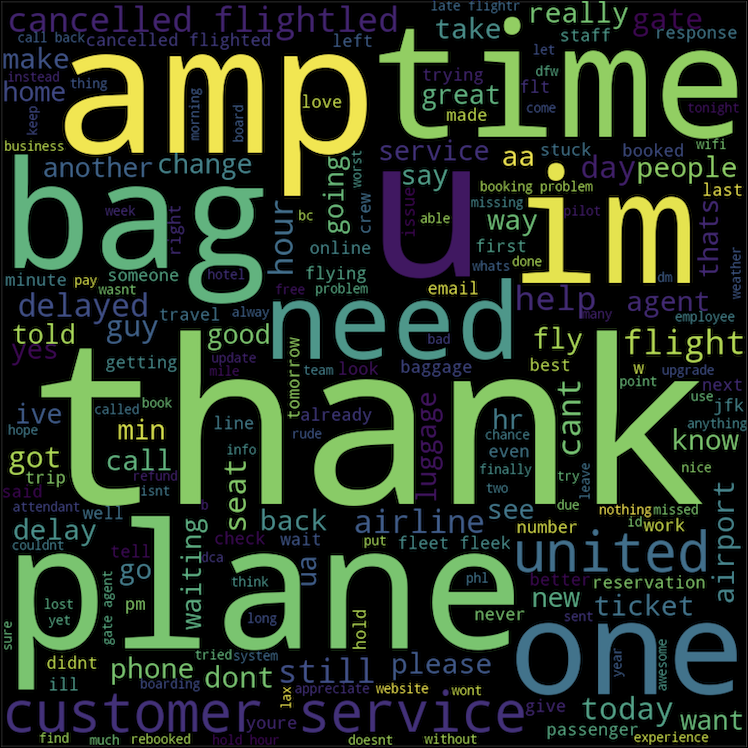
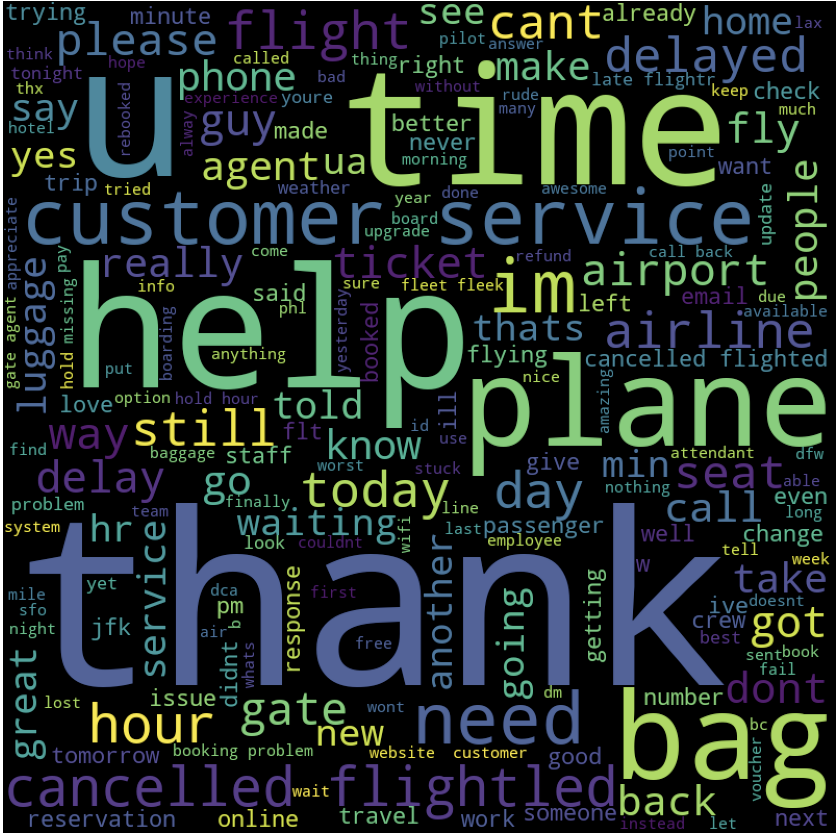
readme edit

diff --git a/Capstone.py b/Capstone.py
@@ -44,8 +44,12 @@ Data Wrangling and EDA
 all_data = pd.read_csv('data/Tweets.csv')
 # all_data = pd.read_csv('data/Tweets.csv', encoding='ISO-8859-1')
 
+
 # drop unwanted columns 
 df = all_data.drop(columns=['tweet_id','airline_sentiment_confidence', 'negativereason', 'negativereason_confidence', 'airline_sentiment_gold', 'negativereason_gold'])
+
+# check out the data
+# print(data_overview(df))
 
 # remove duplicate rows (there's over 100 duplicate rows)
 df.drop_duplicates(inplace=True)
@@ -66,7 +70,6 @@ for text in df.tweet:
 list_words_raw_corpus = corpus.split()
 
 
-
 '''
 NLP
 '''
@@ -74,7 +77,7 @@ NLP
 # stopwords are nltk stopwords
 # add new stopwords
 StopWords = set(stopwords.words('english'))
-add_stopwords = {'flight', 'virgin america', 'virginamerica', 'united', 'southwest', 'southwestair', 'delta', 'us airways', 'usairways', 'american', 'americanair', 'aa', 'jet blue', 'jetblue', 'one', 'two', 'three', 'four', 'five', 'six', 'seven', 'eight', 'nine', 'ten', 'eleven', 'twelve', 'thirteen', 'fourteen', 'fifteen', 'twenty four', '@virginamerica', '@united', '@southwest', '@delta', '@usairways', '@americanair', '@jetblue', '@delta'}
+add_stopwords = {'flight', 'virgin america', 'virginamerica', 'united', 'southwest', 'southwestair', 'delta', 'us airways', 'usairways', 'american', 'americanair', 'aa', 'jet blue', 'jetblue', 'one', 'two', 'three', 'four', 'five', 'six', 'seven', 'eight', 'nine', 'ten', 'eleven', 'twelve', 'thirteen', 'fourteen', 'fifteen', 'twenty four', '@virginamerica', '@united', '@southwest', '@delta', '@usairways', '@americanair', '@jetblue', '@delta', 'amp'}
 StopWords = StopWords.union(add_stopwords)
 
 # text cleaning pipeline
@@ -164,7 +167,7 @@ plt.tight_layout(pad = 1)
 
 def common_words_graph(text, num_words=15, title='Most Common Words'):
     '''
-    Horizontal graph of most common words in text with their counts in descending order.
+    Horizontal bar graph of most common words in text with their counts in descending order.
 
     Parameter
     ----------
@@ -177,7 +180,7 @@ def common_words_graph(text, num_words=15, title='Most Common Words'):
 
     Returns
     ----------
-    Shows graph and saves PNG file of horizontal bar graph showing specified number of most common words in the passed in text string.
+    Shows bar graph with counts of the most common words and saves PNG file of horizontal bar graph showing specified number of most common words in the passed in text string.
     '''
     txt = text.split()
     sorted_word_counts = collections.Counter(txt)
@@ -195,7 +198,7 @@ def common_words_graph(text, num_words=15, title='Most Common Words'):
     ax.set_title(title)
     plt.legend(edgecolor='inherit')
     plt.show()
-    return plt.save('common words graph')
+    # return plt.save('common words graph')
 
 # Lexical diversity
 # total words, total unique words, average repitition, proportion of unique words
@@ -206,13 +209,26 @@ def lexical_diversity(text):
     print(f'Average word repetition: {round(len(text)/len(set(text)), 2)}')
     return f'Proportion of unique words: {round(len(set(txt)) / len(txt), 2)}'
 
+# see examples of the context of a selected word
+def get_context(text, word, lines=10):
+    '''
+    See the context of a word in your corpus.
 
+    Parameter
+    ----------
+    text:  str 
+        String of text.  The corpus.
+    word:  str
+        Word to find see .
+    lines:  int
+        Number of lines to return.
 
-
-
-text = nltk.Text(cleaned_corpus.split())
-text.concordance('thank', lines=8)
-text.concordance('service', lines=8)
+    Returns
+    ----------
+    Specified number of lines showing the context of the specified word.
+    '''
+    txt = nltk.Text(text.split())
+    return txt.concordance(word, lines=lines)
 
 
 
@@ -221,6 +237,10 @@ text.concordance('service', lines=8)
 '''
 Supervised learning classification
 '''
+print(np.random.choice([0,1,2], 1000, p = [.63, .21, .16]))
+
+def random_guess_results(classes=[0,1], iters=100, p=[.5,.5]): 
+    return np.random.choice(classes, iters, p)
 
 # count vectorizer (min_df ignores terms appearing in less than n docs.  max_df ignores words that are in more than n docs. min_df and max_df can take abs numbers or proportion)
 cv = CountVectorizer(stop_words='english')
@@ -242,8 +262,7 @@ cv = CountVectorizer(stop_words='english')
 
 
 # apply text cleaner to each tweet
-df['tweet'] = df['tweet'].apply(text_cleaner)
-
+# df['tweet'] = df['tweet'].apply(text_cleaner)
 
 
 # train/test split, stratify for unbalanced classes
@@ -252,23 +271,30 @@ y = df.sent
 X_train, X_test, y_train, y_test = train_test_split(X, y, test_size=.2, stratify=y)
 
 # apply count vectorizer to train/test data
+def vec_it(text, vectorizer=CountVectorizer):
+    vectorizer = vectorizer
+    words = text.split()
+
+    vecced_text = vectorizer.fit_transform(words)
+    return vecced_text
+
+
 X_train = cv.fit_transform(X_train).toarray()
 X_test = cv.transform(X_test).toarray()
 
 # apply tfidf vectorizer to train/test data
 #  Tfidf vectorizer
 tv = TfidfVectorizer()
-
 # X_train = tv.fit_transform(X_train)
 # y_test = tv.fit_transform(y_test)
 
 #list classification models to test, no tuning
-# MultinomialNB(), SVC(), DecisionTreeClassifier(), RandomForestClassifier(), MLPClassifier()
+# MultinomialNB(), SVC(), DecisionTreeClassifier(), RandomForestClassifier(), MLPClassifier() SVC(C=6, class_weight='balanced')
 
 models = [SVC(C=6, class_weight='balanced')]
 
 # tuned model list
-# models = [RandomForestClassifier(n_estimators=12000, max_features=3), MLPClassifier(hidden_layer_sizes=500, activation='relu', solver='adam', alpha=.05, batch_size=10, learning_rate='adaptive')]
+# models = [MLPClassifier(hidden_layer_sizes=500, activation='relu', solver='adam', alpha=.05, batch_size=10, learning_rate='adaptive'), RandomForestClassifier(n_estimators=12000, max_features=3), ]
 
 # score list of models, return accuracy and f1 scores for each model
 def score_class_models(models=models):
@@ -281,15 +307,12 @@ def score_class_models(models=models):
 
         acc_score_list.append(model.score(X_test, y_test))
         f1_score_list.append(f1_score(y_test, y_pred, average='weighted'))
-        # print(f'{model}: \n {confusion_matrix(y_test, y_pred)} \n')
         
-    for model, score, f1_score in zip(models, acc_score_list, f1_score_list):
+    for model, score, f1_scored in zip(models, acc_score_list, f1_score_list):
         print(f'{model} accuracy: {round(score * 100, 2)} %')
-        print(f'\n')
-        print(f'{model} f1: {round(f1_score * 100, 2)} %')     
+        print(f'{model} f1: {round(f1_scored * 100, 2)} %')     
 
-    # for model, score in zip(models, f1_score_list):
-    return
+
 
 # confusion matrix for best model
 def conf_matrix(model):
@@ -325,7 +348,7 @@ def stratified_k_fold(model, n_folds=5):
 
 
 '''
-Unsupervised Learning
+Unsupervised Learning.  Code is currently incomplete.
 '''
 # term frequency matrix has thousands of features.  reduce features using pca?
 # k means clustering to find clusters, evaluate clusters, 

diff --git a/README.md b/README.md
@@ -10,11 +10,9 @@
 
 <br>
 
-
 ![Sentiment-Counts](/images/sent-counts.png)
 
 <br>
-
 
 ![Sentiment-Counts-Airline](/images/sent-counts-airline.png)
 
@@ -22,8 +20,6 @@
 ### This wordcloud shows the most common words from all the tweets before the text was cleaned and analyzed.
 
 ![Unclean-Corp-WC](/images/unclean-corp-wc.png)
-
-
 
 <br>
 
@@ -40,17 +36,15 @@
 * Returns the cleaned text
 
 ### So text like this:
-1. @VirginAmerica why are your first fares in May over three times more than other carriers when all seats are available to select???
-2. 
-3. To be or not to be?
-4. In his house at R'lyeh dead Cthulhu waits dreaming.
+1. @USAirways 2 hours and counting waiting to get into a gate in Philadelphia. Just icing on the cake for a miserable flight experience
+2. To be or not to be?
+3. In his house at R'lyeh dead Cthulhu waits dreaming.
 
 
 ### Becomes:
-1. first fare may time carrier seat available select
-2. 
-3. ''
-4. house rlyeh dead cthulhu wait dreaming
+1. hour counting waiting get gate philadelphia icing cake miserable experience
+2. ''
+3. house rlyeh dead cthulhu wait dreaming
 
 ### Line 3 is a good example of why natural language processing can be difficult.
 
@@ -71,7 +65,7 @@
 
 <br>
 
-### Examples of some of the context in which the most common words were found.
+### Examples of the context in which some the most common words were found.
 #### "thank"
 
 ![thank-context](/images/thank-context.png)
@@ -80,10 +74,7 @@
 
 ![service-context](/images/service-context.png)
 
-
-
 <br>
-
 
 ### I used supervised learning classification models to try and build a good predictive model to classify tweets into their positive, negative, or neutral categories.  Since tweets are short I used Sklearn's CountVectorizer instead of the tfidf vectorizer. 
 
@@ -93,12 +84,12 @@
 * Support Vector Machine
 * Multi Layer Perceptron neural network
 
-
 ### Using random guessing the chances of correctly classifying a tweet would be
 
 ### Running models with the default parameters resulted in accuracy and f1 scores between 70-78% with Support Vector Machine performing the best.  F1 scores were usually only about 1-2% less than accuracy scores.
 
 #### Model scores using default parameters.
+
 ![No-Tuning](/images/no-tuning.png)
 
 ### I increased the number of trees in the Random Forest model as high as 12000, and tried different max features and class weights but didn't get any scores higher than 77%.
@@ -108,6 +99,7 @@
 ### By tuning the models to account for the imbalanced classes and making changes to my stopwords list and text pipeline I was able to raise the MLP classifier accuracy about 7% but other models performed relatively similarly to when they ran using the default parameters.  SVM, Random Forest, and MLP models performed better than the others I tried.
 
 #### Model scores after tuning.
+
 ![Some-Tuning](/images/some-tuning.png)
 
 
